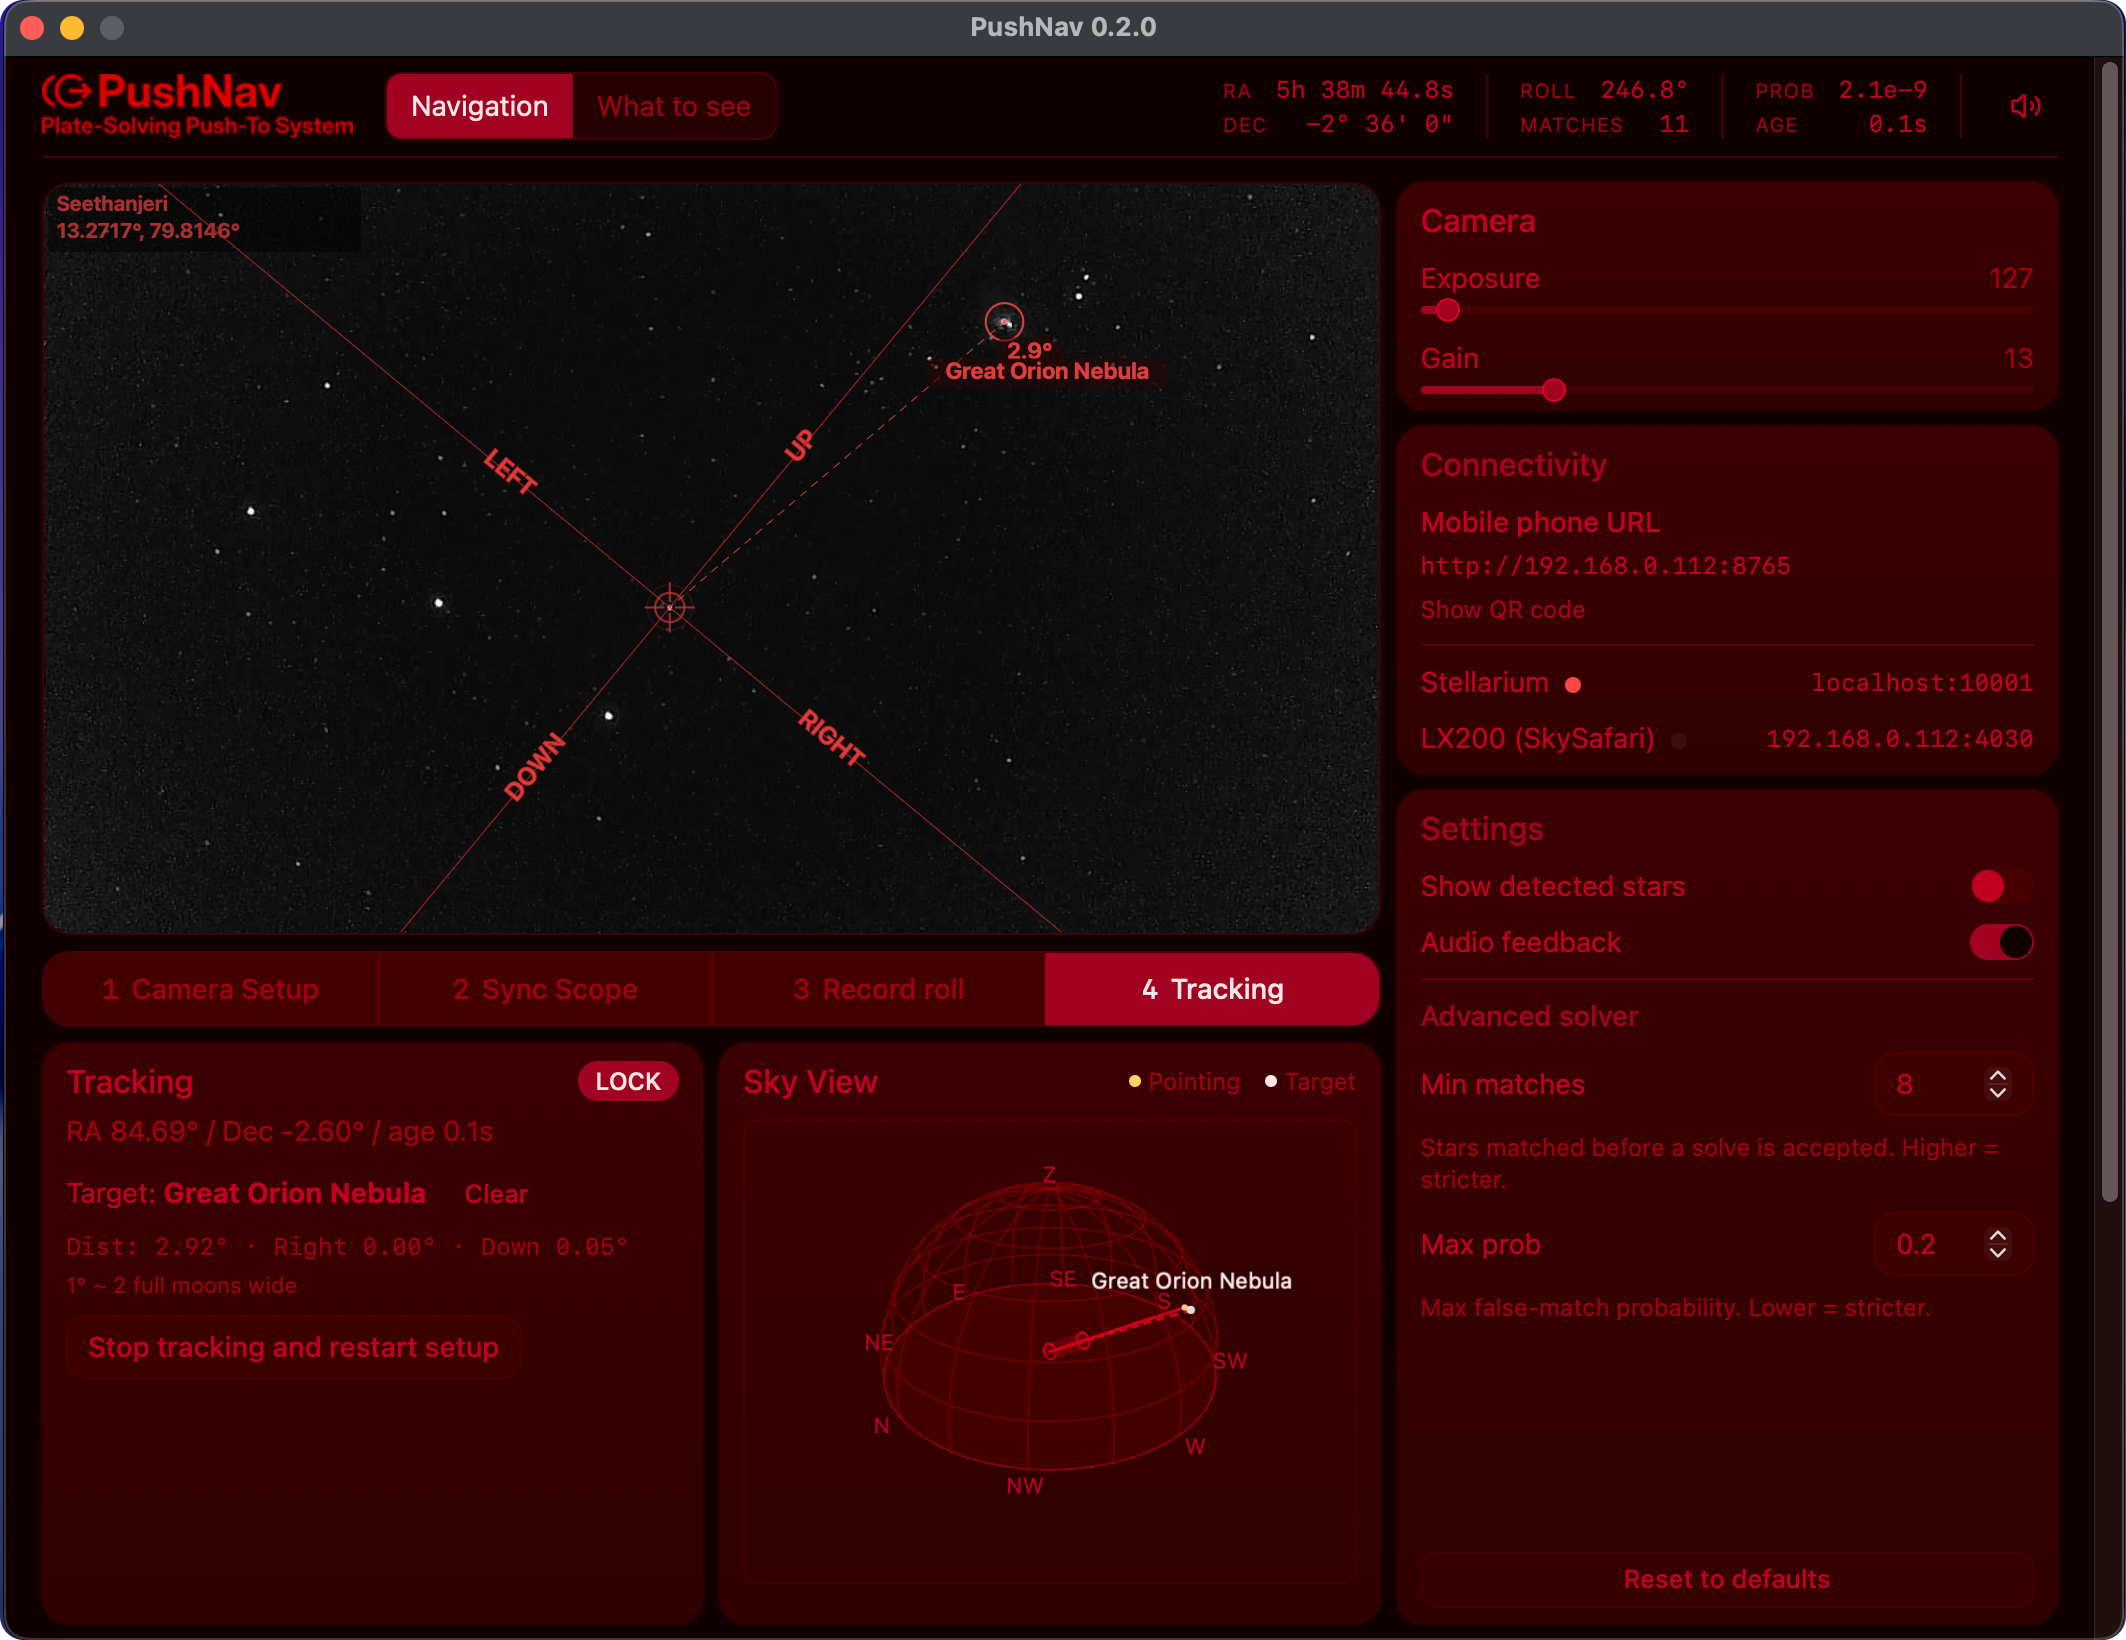
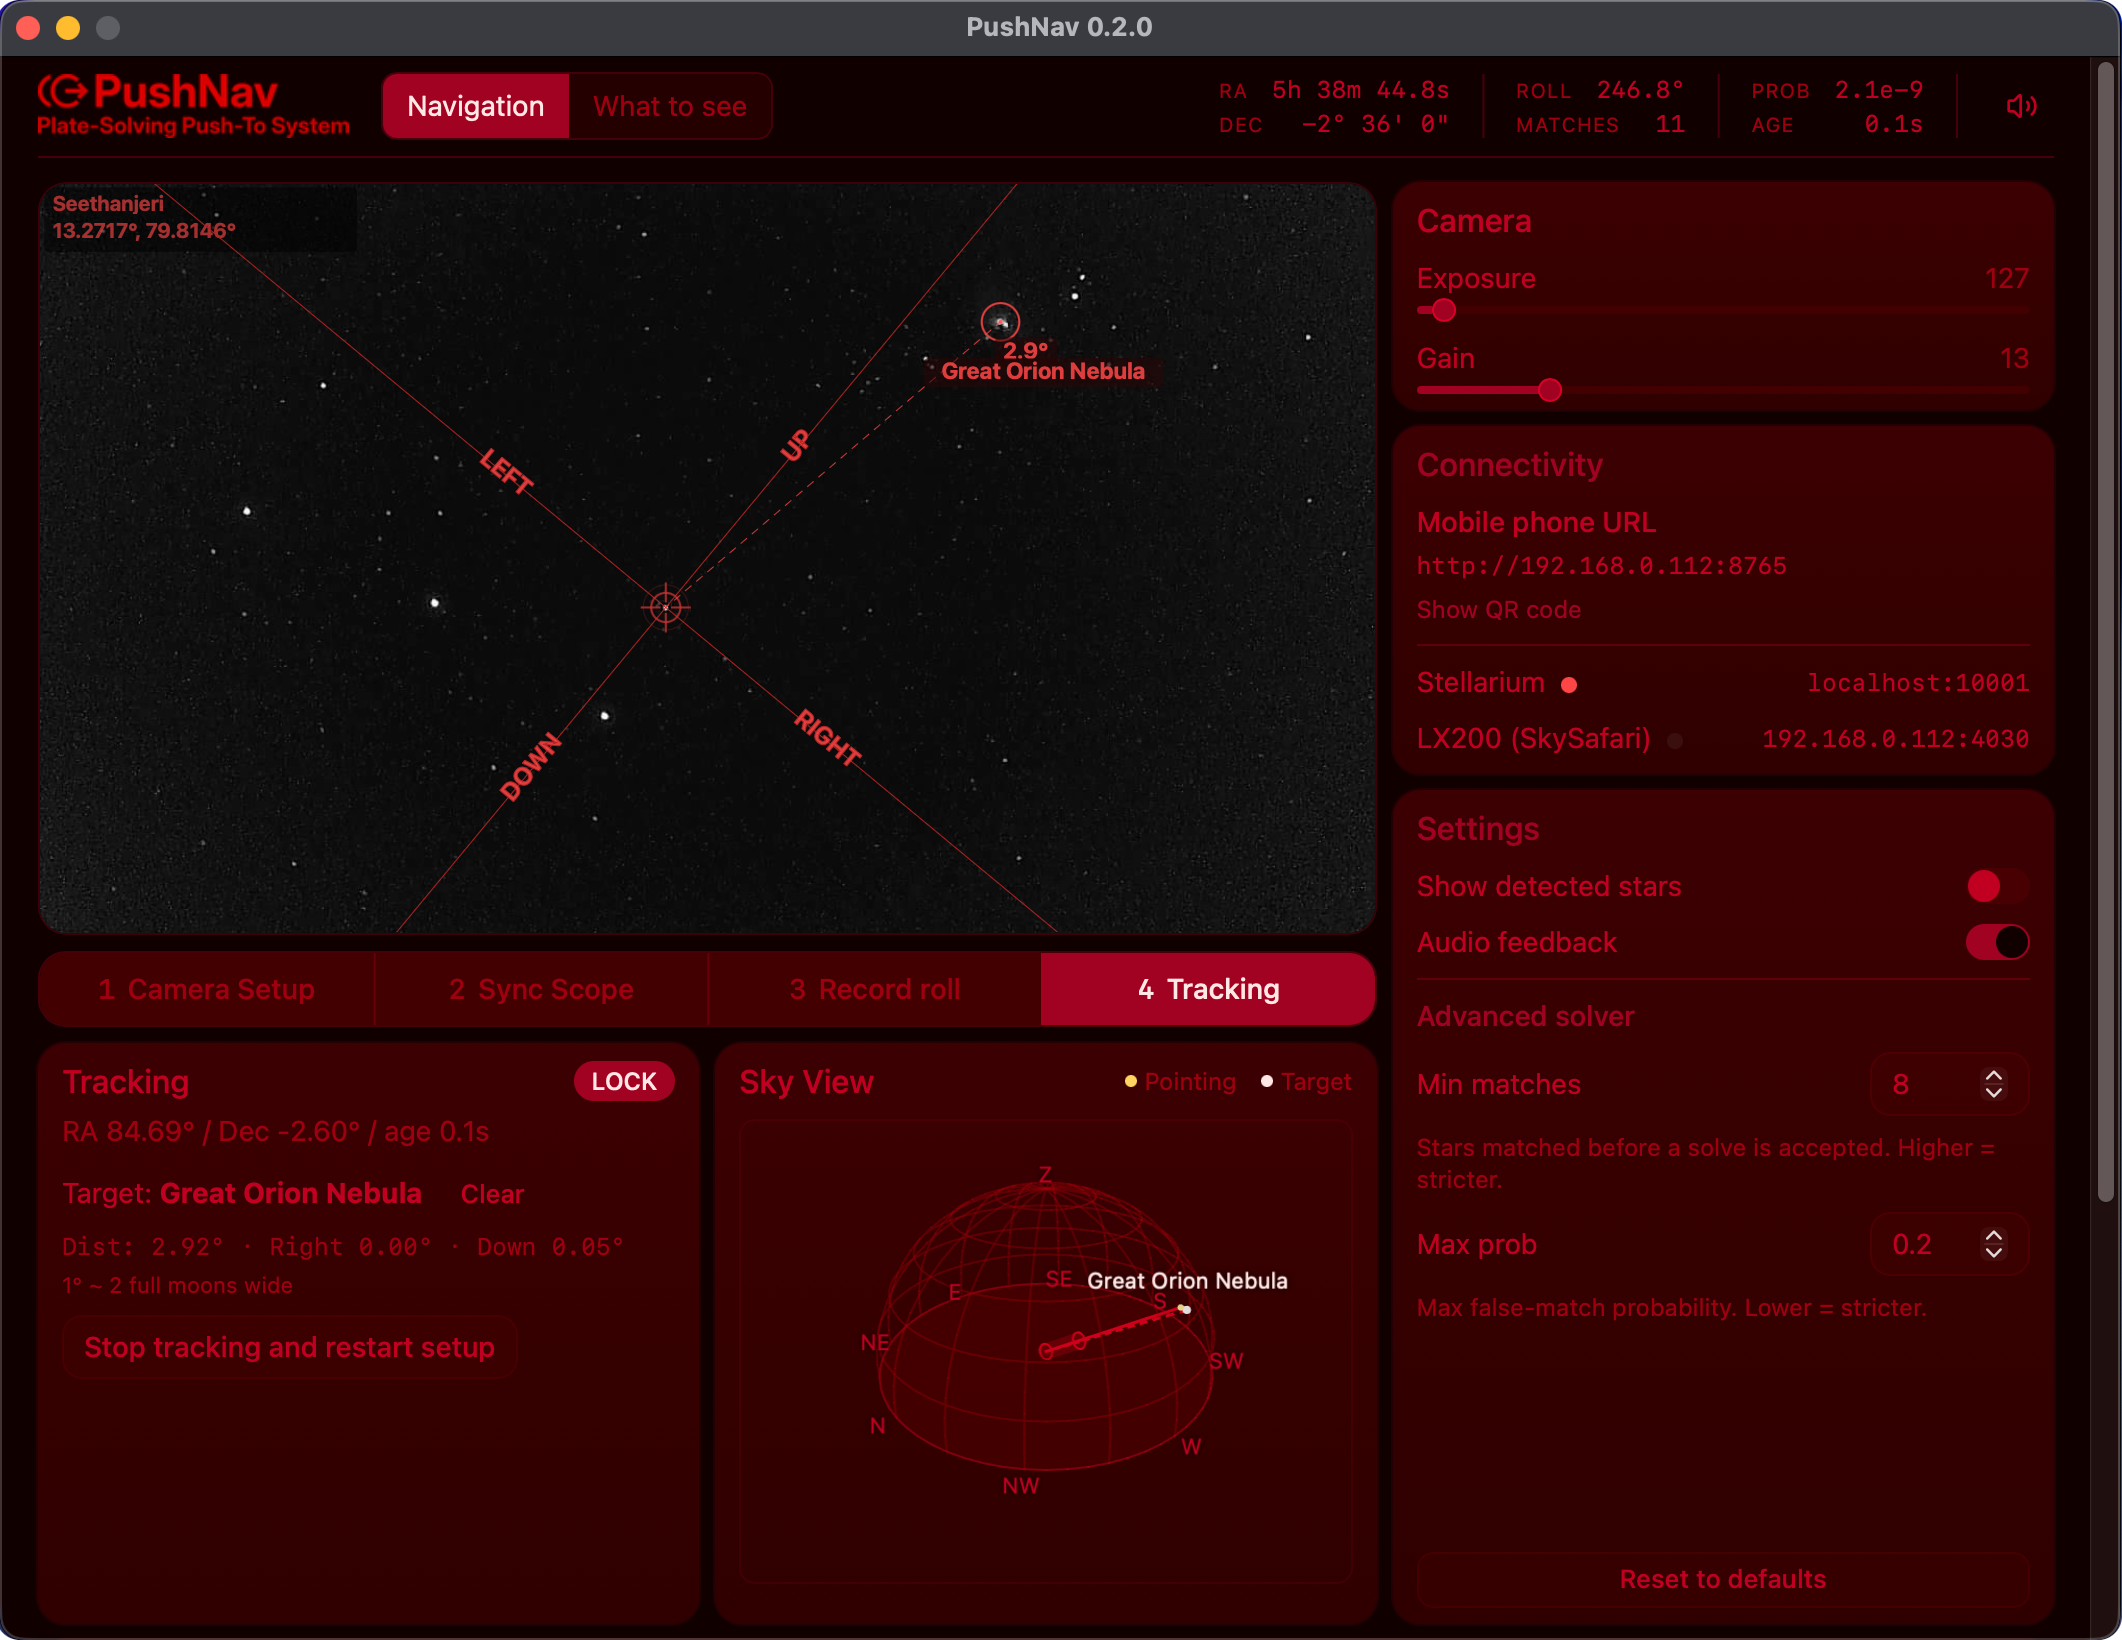
docs(landing): polish README + index.md, add standalone-use story
Tightens the landing pages on both the GitHub README and the GH-Pages
homepage so they reflect what PushNav actually does now (the in-app
What to See catalog + the always-visible Sky View dome), and fixes a
batch of small inconsistencies surfaced by a review pass.

Content changes (identical in README and docs/index.md):

  - New "PushNav can run completely standalone" paragraph below the
    intro, with the three catalog modes spelled out by size (161
    curated, 20,000+ searchable, manual RA/Dec).
  - Push-to ops paragraph rewritten to lead with the in-app vs.
    external-app choice, then converge on "either way".
  - How It Works step 1 acknowledges the in-app catalog as a target
    source.
  - How It Works step 3 now leads with the on-screen Sky View dome and
    relegates the external crosshair to "when a planetarium app is
    connected".
  - Features list: GOTO bullet rewritten to mention the in-app catalog
    alongside external planetarium apps.
  - Tracking screenshot gains a one-line "Above:" caption explaining
    the new Sky View dome (yellow = pointing, cream = target).
  - M42 caption re-worded so it stops repeating the intro's "no motors,
    no encoders" tagline verbatim.
  - "Cross platform from ground up" → "from the ground up".
  - "Internal workflow" demoted from H4 to H3 to fix the heading-level
    jump under "How It Works" (was breaking Material's TOC).
  - All four prose em-dashes in the landing area replaced with parens
[…]

diff --git a/README.md b/README.md
@@ -4,13 +4,17 @@
 
 A cross-platform plate-solving push-to system for manual telescopes. PushNav uses a live camera feed to continuously plate-solve and determine where your telescope is pointing, reporting coordinates to **Stellarium** on the desktop and to **SkySafari**, **Stellarium Mobile**, **INDI**, or **ASCOM** clients over Wi-Fi in real-time. No encoders, no motors, no GOTO mount required.
 
+Don't have a planetarium app, or don't want to switch between two screens? PushNav can run completely standalone. Pick targets from its built-in **What to See** catalog (a curated short-list of 161 hand-picked objects, a search across more than 20,000 stars and deep-sky objects, or a manual RA/Dec panel), follow the push direction, and watch your scope's pointing on the on-screen **Sky View** dome. No other software required.
+
 > **What is plate-solving?**
 >
 > Any part of the night sky has a unique arrangement of stars. Plate-solving is a technique that takes a photo, matches that arrangement against a catalog, and reports exactly where the camera is pointing, down to a fraction of a degree. PushNav runs it continuously on the live camera feed, so the app always knows where your telescope is aimed.
 
 ![PushNav Mounted](docs/assets/mounted.jpeg)
 
-![Screenshot](docs/assets/pushnav.0.2.0-tracking.png)
+![PushNav in tracking mode](docs/assets/pushnav.0.2.0-tracking.png)
+
+Above: PushNav in tracking mode. The right-hand **Sky View** dome shows the current pointing (yellow) and the active GOTO target (cream) on a hemispheric grid above the local horizon.
 
 It uses European Space Agency's (ESA) tetra3 fast lost-in-space plate solver for plate-solving. This effecient algorithm produces near real-time solutions on a live video feed.
 
@@ -20,23 +24,23 @@ Power your non-GOTO manual telescope with PushNav and enjoy seamless push-to nav
 
 ## Push-to ops
 
-Pick a target in any planetarium app (Stellarium on the desktop, or SkySafari, Stellarium Mobile, INDI, or ASCOM on a phone or tablet) and PushNav guides you to push the telescope there. At the same time, your scope's live pointing moves on every connected app's sky chart, staying in sync across all clients.
+Pick a target either inside PushNav or from any planetarium app you already use. PushNav's built-in **"What to See"** catalog covers a curated short-list, a fuzzy search across more than 20,000 stars and deep-sky objects, and a manual RA/Dec panel. Or stay in **Stellarium** on the desktop (or **SkySafari**, **Stellarium Mobile**, **INDI**, or **ASCOM** on a phone or tablet) and send the target from there. Either way, PushNav guides you to push the telescope to it, and your scope's live pointing moves on every connected app's sky chart in real time, staying in sync across all clients.
 
 ![PushNav tracking M42 across Stellarium and SkySafari](docs/assets/pushnav_ops.png)
 
-Above: **M42 (Orion Nebula)** is the active target on both **Stellarium** (desktop) and **SkySafari** (phone). As the scope is pushed, each plate-solve updates the telescope crosshair on every connected client simultaneously. No motors, no encoders, just a camera and Wi-Fi.
+Above: **M42 (Orion Nebula)** is the active target on both **Stellarium** (desktop) and **SkySafari** (phone). As the scope is pushed, each plate-solve updates the telescope crosshair on every connected client simultaneously. No mount control, no GoTo motors. Just a camera and Wi-Fi.
 
-## Cross platform from ground up
+## Cross platform from the ground up
 
 Supports **Windows**, **macOS**, and **Linux**. The core app is written in Python with a React UI hosted in a pywebview window (OS-native WebKit/WebView2/GTK), while the camera server is a native binary for each platform (Swift on macOS, C/V4L2 on Linux, C/DirectShow on Windows) to achieve maximum performance and compatibility with UVC cameras.
 
 ## How It Works
 
-1. Observer picks a target in a planetarium app (Stellarium on the desktop, or SkySafari / Stellarium Mobile PLUS on a phone) and sends it to PushNav.
+1. Observer picks a target from PushNav's built-in **What to See** catalog, or from a planetarium app (Stellarium on the desktop, or SkySafari / Stellarium Mobile PLUS / INDI / ASCOM on a phone or tablet), and sends it to PushNav.
 2. PushNav shows how to push the telescope to reach the target in its UI.
-3. The telescope's pointing is also shown as a live crosshair in the planetarium app's sky chart, moving in real-time as you push the scope.
+3. Your telescope's pointing shows in real time on the on-screen **Sky View** dome. When a planetarium app is connected, it also appears as a live crosshair on the app's sky chart, staying in sync across all clients.
 
-#### Internal workflow
+### Internal workflow
 
 1. A USB camera in place of your telescope's finder captures the star field
 2. PushNav plate-solves frames using the [tetra3](https://github.com/esa/tetra3) star pattern recognition library in near real-time
@@ -47,7 +51,7 @@ Supports **Windows**, **macOS**, and **Linux**. The core app is written in Pytho
 
 - Near real-time plate solving (~20–140 ms per frame)
 - One time, simple calibration. No named stars, just point at any bright star and sync
-- GOTO navigation guidance from any connected planetarium app (Stellarium, SkySafari, Stellarium Mobile, etc.)
+- GOTO navigation guidance for targets picked inside PushNav's **What to See** catalog or sent from your planetarium app (Stellarium, SkySafari, Stellarium Mobile, etc.)
 - Built-in **"What to See"** target picker with three modes: **Buddy** (161 hand-picked deep-sky objects filterable by equipment, light-pollution tolerance and visual reward), **Advanced** (fuzzy search across 12,522 NGC objects from OpenNGC and 8,825 bright stars from HYG), and **Manual coordinates** (HMS/DMS RA/Dec entry for anything not in the catalogs). Visibility (alt/az, rise/transit/set) is recomputed live for your location and time; one click promotes the selected object to the GOTO target. Below-horizon objects can't be set as a target.
 - Works with **SkySafari**, **Stellarium Mobile**, **INDI**, and **ASCOM** clients over Wi-Fi via the LX200 protocol, with `:D#` slew-status so SkySafari's "Stop / GoTo" button transitions correctly
 - **Mobile web interface**: scan a QR code in the Settings panel to open a live mobile view; no app install required, phone and laptop just need to be on the same Wi-Fi

diff --git a/docs/index.md b/docs/index.md
@@ -8,6 +8,8 @@ Plate-Solving Push-To System for Manual Telescopes
 
 A cross-platform plate-solving push-to system for manual telescopes. PushNav uses a live camera feed to continuously plate-solve and determine where your telescope is pointing, reporting coordinates to Stellarium, SkySafari, and other planetarium apps in real-time. No encoders, no motors, no GOTO mount required. Just a USB camera, a lens, and your laptop. Under **$50** in total hardware.
 
+Don't have a planetarium app, or don't want to switch between two screens? PushNav can run completely standalone. Pick targets from its built-in **What to See** catalog (a curated short-list of 161 hand-picked objects, a search across more than 20,000 stars and deep-sky objects, or a manual RA/Dec panel), follow the push direction, and watch your scope's pointing on the on-screen **Sky View** dome. No other software required.
+
 !!! info "What is plate-solving?"
     Any part of the night sky has a unique arrangement of stars. Plate-solving is a technique that takes a photo, matches that arrangement against a catalog, and reports exactly where the camera is pointing, down to a fraction of a degree. PushNav runs it continuously on the live camera feed, so the app always knows where your telescope is aimed.
 
@@ -15,28 +17,30 @@ A cross-platform plate-solving push-to system for manual telescopes. PushNav use
 
 PushNav uses the European Space Agency's (ESA) [tetra3](https://github.com/esa/tetra3) fast lost-in-space plate solver, the same algorithm family that powers spacecraft navigation. This efficient solver produces near real-time solutions on a live video feed, enabling seamless push-to navigation even in light-polluted urban skies.
 
-![Screenshot](assets/pushnav.0.2.0-tracking.png)
+![PushNav in tracking mode](assets/pushnav.0.2.0-tracking.png)
+
+Above: PushNav in tracking mode. The right-hand **Sky View** dome shows the current pointing (yellow) and the active GOTO target (cream) on a hemispheric grid above the local horizon.
 
 ## Push-to ops
 
-Pick a target in any planetarium app (Stellarium on the desktop, or SkySafari, Stellarium Mobile, INDI, or ASCOM on a phone or tablet) and PushNav guides you to push the telescope there. At the same time, your scope's live pointing moves on every connected app's sky chart, staying in sync across all clients.
+Pick a target either inside PushNav or from any planetarium app you already use. PushNav's built-in **"What to See"** catalog covers a curated short-list, a fuzzy search across more than 20,000 stars and deep-sky objects, and a manual RA/Dec panel. Or stay in **Stellarium** on the desktop (or **SkySafari**, **Stellarium Mobile**, **INDI**, or **ASCOM** on a phone or tablet) and send the target from there. Either way, PushNav guides you to push the telescope to it, and your scope's live pointing moves on every connected app's sky chart in real time, staying in sync across all clients.
 
 ![PushNav tracking M42 across Stellarium and SkySafari](assets/pushnav_ops.png)
 
-Above: **M42 (Orion Nebula)** is the active target on both **Stellarium** (desktop) and **SkySafari** (phone). As the scope is pushed, each plate-solve updates the telescope crosshair on every connected client simultaneously. No motors, no encoders, just a camera and Wi-Fi.
+Above: **M42 (Orion Nebula)** is the active target on both **Stellarium** (desktop) and **SkySafari** (phone). As the scope is pushed, each plate-solve updates the telescope crosshair on every connected client simultaneously. No mount control, no GoTo motors. Just a camera and Wi-Fi.
 
-## Cross platform from ground up
+## Cross platform from the ground up
 
 Supports **Windows**, **macOS**, and **Linux**. The core app is written in Python, while the camera server is a native binary for each platform (Swift on macOS, C/V4L2 on Linux, C/DirectShow on Windows) to achieve maximum performance and compatibility with UVC cameras.
 
 
 ## How It Works
 
-1. Observer picks a target in a planetarium app (Stellarium on the desktop, or SkySafari / Stellarium Mobile PLUS on a phone) and sends it to PushNav.
+1. Observer picks a target from PushNav's built-in **What to See** catalog, or from a planetarium app (Stellarium on the desktop, or SkySafari / Stellarium Mobile PLUS / INDI / ASCOM on a phone or tablet), and sends it to PushNav.
 2. PushNav shows how to push the telescope to reach the target in its UI. A built-in mobile web interface lets you view the same guidance on your phone: scan a QR code and you're connected.
-3. The telescope's pointing is also shown as a live crosshair in the planetarium app's sky chart, moving in real-time as you push the scope.
+3. Your telescope's pointing shows in real time on the on-screen **Sky View** dome. When a planetarium app is connected, it also appears as a live crosshair on the app's sky chart, staying in sync across all clients.
 
-#### Internal workflow
+### Internal workflow
 
 1. A USB camera in place of your telescope's finder captures the star field
 2. PushNav plate-solves frames using the [tetra3](https://github.com/esa/tetra3) star pattern recognition library in near real-time
@@ -47,7 +51,7 @@ Supports **Windows**, **macOS**, and **Linux**. The core app is written in Pytho
 
 - Near real-time plate solving (~20–140 ms per frame)
 - One time, simple calibration. No named stars, just point at any bright star and sync
-- GOTO navigation guidance from your planetarium app (Stellarium, SkySafari, Stellarium Mobile, etc.)
+- GOTO navigation guidance for targets picked inside PushNav's **What to See** catalog or sent from your planetarium app (Stellarium, SkySafari, Stellarium Mobile, etc.)
 - Works with **SkySafari**, **Stellarium Mobile**, **INDI**, and **ASCOM** clients over Wi-Fi via the LX200 protocol. See [SkySafari & Other Apps](skysafari-setup.md)
 - Built-in **"What to See"** target picker — pick a target without leaving PushNav. Three modes: a curated **Buddy** catalog (161 hand-picked deep-sky objects with filters), an **Advanced** fuzzy search across 12,522 NGC objects and 8,825 bright stars, and **Manual coordinates** for anything else. See [Using PushNav](using-pushnav.md#picking-targets-inside-pushnav).
 - Audio feedback for lock/lost/GOTO events